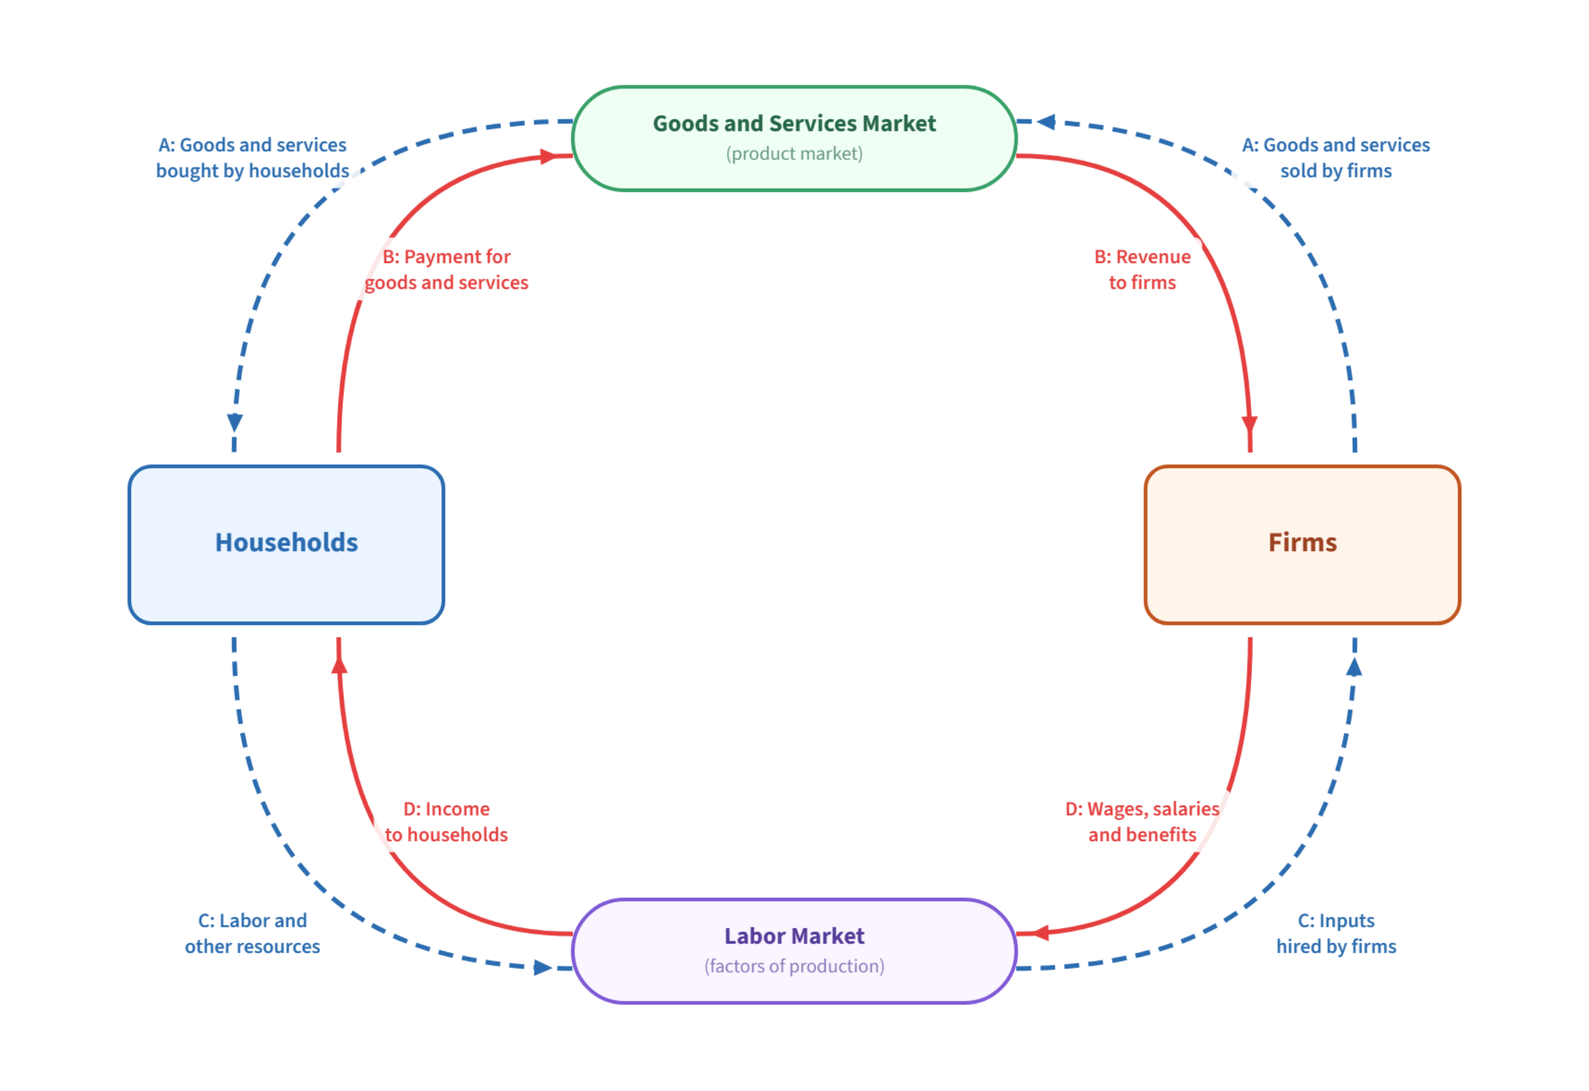
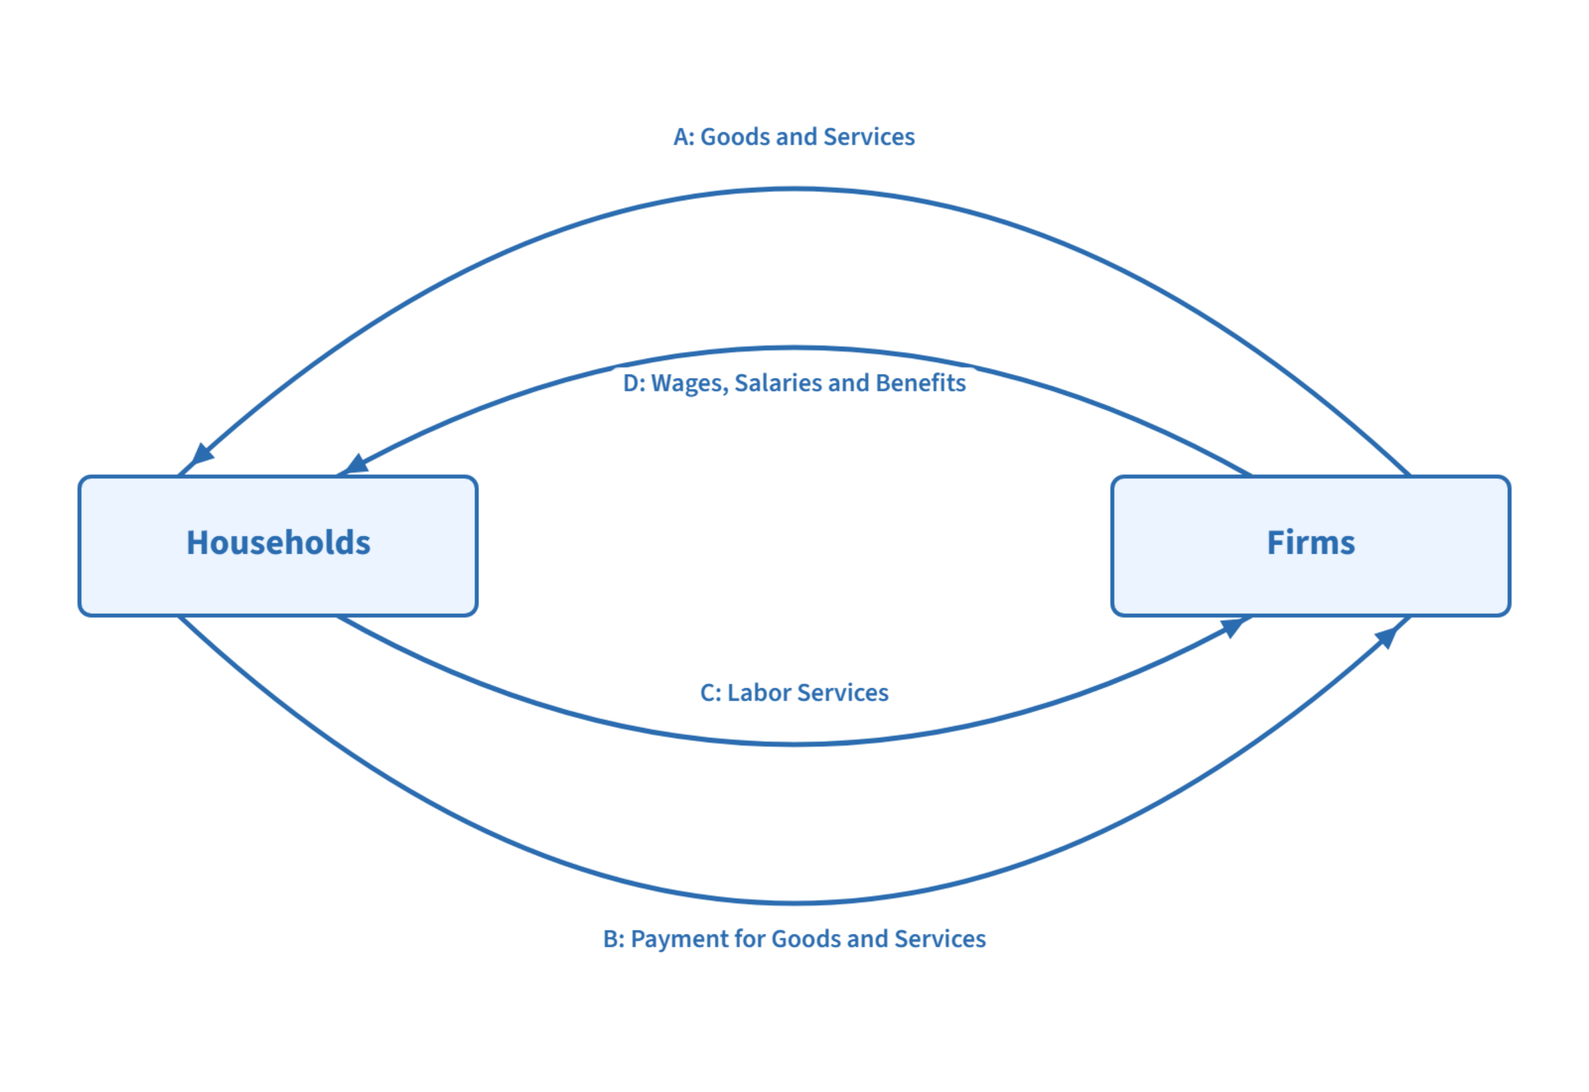
Rebuild book output

diff --git a/HTML_open_principles_of_microeconomics/apps/circular_flow_textbook.html b/HTML_open_principles_of_microeconomics/apps/circular_flow_textbook.html
@@ -10,24 +10,24 @@
 <body>
 <div class="container">
   <div id="section-title" class="title-wrapper"><h1>The Circular Flow Diagram</h1><div class="panel-header-actions" style="top:50%;transform:translateY(-50%)"><button class="panel-close-btn" onclick="closePanel('title')">✕</button></div></div>
-  <div id="section-subtitle" class="subtitle-wrapper"><p class="subtitle">Households and firms meet in two markets; goods and labor go one way round, payments go the other. Drag boxes and labels to rearrange.</p><div class="panel-header-actions" style="top:4px"><button class="panel-close-btn" onclick="closePanel('subtitle')">✕</button></div></div>
+  <div id="section-subtitle" class="subtitle-wrapper"><p class="subtitle">Households and firms interact in the goods and services market and in the labor market. Drag the boxes and labels to rearrange.</p><div class="panel-header-actions" style="top:4px"><button class="panel-close-btn" onclick="closePanel('subtitle')">✕</button></div></div>
 
   <div class="main-content">
     <div class="left-column">
       <div class="graph-container" id="section-graph">
-        <div class="graph-header" onclick="tog('graph')"><div class="panel-title">A. Households, Firms and Two Markets</div><div class="panel-header-actions"><button class="panel-collapse-btn" id="toggle-graph" onclick="event.stopPropagation();tog('graph')">▼</button><button class="panel-close-btn" onclick="event.stopPropagation();closePanel('graph')">✕</button></div></div>
+        <div class="graph-header" onclick="tog('graph')"><div class="panel-title">A. Households and Firms</div><div class="panel-header-actions"><button class="panel-collapse-btn" id="toggle-graph" onclick="event.stopPropagation();tog('graph')">▼</button><button class="panel-close-btn" onclick="event.stopPropagation();closePanel('graph')">✕</button></div></div>
         <div class="graph-body" id="body-graph">
           <div class="plot-actions"><button class="plot-action-btn" id="copy-plot-btn"><svg viewBox="0 0 24 24" fill="none" stroke="currentColor" stroke-width="2"><rect x="9" y="9" width="13" height="13" rx="2"/><path d="M5 15H4a2 2 0 0 1-2-2V4a2 2 0 0 1 2-2h9a2 2 0 0 1 2 2v1"/></svg><span id="copy-label">Copy image</span></button><button class="plot-action-btn" id="save-plot-btn"><svg viewBox="0 0 24 24" fill="none" stroke="currentColor" stroke-width="2"><path d="M21 15v4a2 2 0 0 1-2 2H5a2 2 0 0 1-2-2v-4"/><polyline points="7 10 12 15 17 10"/><line x1="12" y1="15" x2="12" y2="3"/></svg><span id="save-label">Save PNG</span></button></div>
-          <canvas id="graph" width="1720" height="1180"></canvas>
+          <canvas id="graph" width="1600" height="1100"></canvas>
         </div>
       </div>
 
       <div class="left-section" id="section-explanation">
         <div class="left-section-header" onclick="tog('explanation')"><div class="panel-title">Explanation</div><div class="panel-header-actions"><button class="panel-collapse-btn" id="toggle-explanation" onclick="event.stopPropagation();tog('explanation')">▼</button><button class="panel-close-btn" onclick="event.stopPropagation();closePanel('explanation')">✕</button></div></div>
         <div class="left-section-body" id="body-explanation">
-          <p>The circular flow diagram pictures the economy as two groups, <strong>households</strong> and <strong>firms</strong>, that meet in two markets. In the <strong>goods and services market</strong> (top) firms sell and households buy. In the <strong>labor market</strong>, or market for factors of production (bottom), households sell labor and other resources and firms buy them.</p>
-          <p>Firms produce and sell goods and services to households: arrow <strong>A</strong>. Households pay for them, and those payments become the firms' revenue: arrow <strong>B</strong>. Where do households get the money? They supply labor and other inputs to firms: arrow <strong>C</strong>. Firms pay for those inputs with wages, salaries and other factor payments: arrow <strong>D</strong>. Arrows A and B are the two sides of the product market; C and D are the two sides of the factor market.</p>
-          <p>The <span style="color:#e53e3e;font-weight:600">solid flows</span> are money and run clockwise; the <span style="color:#2b6cb0;font-weight:600">dashed flows</span> are real things, goods and labor, and run the other way. Every dollar one group spends is income to the other, which is why the flow never stops.</p>
+          <p>The circular flow diagram pictures the economy as two groups, <strong>households</strong> and <strong>firms</strong>, that interact in two markets: the <strong>goods and services market</strong>, in which firms sell and households buy, and the <strong>labor market</strong>, in which households sell labor to firms.</p>
+          <p>Firms produce and sell goods and services to households (arrow <strong>A</strong>). Households pay for those goods and services, and the payments become the firms' revenue (arrow <strong>B</strong>). Arrows A and B are the two sides of the goods and services market. Where do households get the income to pay? They provide the labor and other resources firms need (arrow <strong>C</strong>), and firms pay for them with wages, salaries and benefits (arrow <strong>D</strong>). Arrows C and D are the two sides of the labor market.</p>
+          <p>The direction of the arrows is the point: everything on the top half flows to households, everything on the bottom half flows to firms, and each group's spending is the other group's income.</p>
         </div>
       </div>
     </div>
@@ -40,15 +40,15 @@
       <div class="control-panel" id="section-keyvals">
         <div class="control-panel-header" onclick="tog('keyvals')"><div class="panel-title">Key</div><div class="panel-header-actions"><button class="panel-collapse-btn" id="toggle-keyvals" onclick="event.stopPropagation();tog('keyvals')">▼</button><button class="panel-close-btn" onclick="event.stopPropagation();closePanel('keyvals')">✕</button></div></div>
         <div class="control-panel-body" id="body-keyvals">
-          <div class="legend">
-            <div class="legend-item"><div class="legend-dot" style="background:#2b6cb0"></div><span>Households</span></div>
-            <div class="legend-item"><div class="legend-dot" style="background:#c05621"></div><span>Firms</span></div>
-            <div class="legend-item"><div class="legend-dot" style="background:#38a169"></div><span>Goods and services market</span></div>
-            <div class="legend-item"><div class="legend-dot" style="background:#805ad5"></div><span>Labor (factor) market</span></div>
-            <div class="legend-item"><div class="legend-line" style="background:#e53e3e"></div><span>Money flows, clockwise (B, D)</span></div>
-            <div class="legend-item"><div class="legend-line" style="background:#2b6cb0;height:1px;border:1px dashed #2b6cb0"></div><span>Real flows, counter-clockwise (A, C)</span></div>
-          </div>
-          <div class="equation-box" style="margin-top:12px">\( \text{Spending} = \text{Revenue} = \text{Factor payments} = \text{Income} \)</div>
+          <table class="data-table">
+            <thead><tr><th>Arrow</th><th>Flow</th><th>Market</th></tr></thead>
+            <tbody>
+              <tr><td>A</td><td style="text-align:left">Goods and services, firms to households</td><td>Goods and services</td></tr>
+              <tr><td>B</td><td style="text-align:left">Payment for goods and services, households to firms</td><td>Goods and services</td></tr>
+              <tr><td>C</td><td style="text-align:left">Labor services, households to firms</td><td>Labor</td></tr>
+              <tr><td>D</td><td style="text-align:left">Wages, salaries and benefits, firms to households</td><td>Labor</td></tr>
+            </tbody>
+          </table>
         </div>
       </div>
     </div>
@@ -72,22 +72,18 @@
 </div>
 
 <script>
-// A schematic laid out in design pixels on a 1720 x 1180 canvas (the 3611
-// original's 860 x 660 layout at the library's design ratio): four boxes at
-// the cardinal points of a ring, eight quarter-turn arcs between them. There
-// are no data axes. Boxes are draggable through the library by registering
-// each as a label hit box whose nudge moves the whole box, so a rearranged
-// diagram travels in the URL hash like any other figure state.
+// Figure 1.7 of the book: two boxes, Households on the left and Firms on the
+// right, joined by four arrows labelled A to D exactly as the chapter text
+// names them. The 3611 course's circular flow app (which also draws the two
+// markets as boxes and separates money from real flows) was the starting
+// point, but the figure follows the book's own diagram and text, not the
+// richer course version. The market names are available as a toggle that
+// defaults off, since the text refers to them without drawing them.
 //
-// Ported from apec_3611/src/games/circular_flow_explanation.html. The flow
-// labels carry the letters A to D that the chapter text refers to.
-const COL = {
-  hh: { fill:'#ebf4ff', stroke:'#2b6cb0', text:'#2b6cb0' },
-  fi: { fill:'#fff5eb', stroke:'#c05621', text:'#9c4221' },
-  gm: { fill:'#f0fff4', stroke:'#38a169', text:'#276749' },
-  fm: { fill:'#faf5ff', stroke:'#805ad5', text:'#553c9a' },
-  money:'#e53e3e', real:'#2b6cb0', math:'#4a5568',
-};
+// Laid out in design pixels on a 1600 x 1100 canvas; no data axes. Boxes are
+// draggable through the library by registering each as a label hit box whose
+// nudge moves the whole box.
+const BLUE = '#2b6cb0', FILL = '#ebf4ff', GREY = '#718096';
 const qB  = (t, a, b, c) => { const u = 1 - t; return u * u * a + 2 * u * t * b + t * t * c; };
 const qBD = (t, a, b, c) => 2 * (1 - t) * (b - a) + 2 * t * (c - b);
 
@@ -102,29 +98,22 @@ new EconViz({
   downloadName: 'circular_flow.png',
   axes: { xMin:0, xMax:1, yMin:0, yMax:1, margin:{top:0, right:0, bottom:0, left:0} },
   sliders: [
-    { id:'gap_x', label:'Agent spacing',    min:200, max:340, value:275, step:5 },
-    { id:'gap_y', label:'Market spacing',   min:160, max:260, value:220, step:5 },
+    { id:'gap_x', label:'Box spacing',      min:180, max:320, value:260, step:5 },
+    { id:'gap_y', label:'Arc height',       min:120, max:260, value:180, step:5 },
     { id:'speed', label:'Animation speed',  min:0.2, max:3,   value:1,   step:0.1, fmt:v => v.toFixed(1) + 'x' },
   ],
   toggles: [
-    { id:'show_households',   label:'Households' },
-    { id:'show_firms',        label:'Firms' },
-    { id:'show_gm',           label:'Goods and services market' },
-    { id:'show_fm',           label:'Labor (factor) market' },
-    { id:'show_money',        label:'Money flows (solid)' },
-    { id:'show_real',         label:'Real flows (dashed)' },
-    { id:'show_agentlabels',  label:'Household and firm labels' },
-    { id:'show_marketlabels', label:'Market labels' },
-    { id:'show_flowlabels',   label:'Flow labels (A to D)' },
-    { id:'show_icons',        label:'Icons', checked:false },
-    { id:'show_math',         label:'What each group maximizes', checked:false },
-    { id:'show_anim',         label:'Animate flows (live only)', checked:false },
+    { id:'show_gm',         label:'Goods and services market flows (A, B)' },
+    { id:'show_fm',         label:'Labor market flows (C, D)' },
+    { id:'show_labels',     label:'Households and Firms labels' },
+    { id:'show_flowlabels', label:'Arrow labels (A to D)' },
+    { id:'show_markets',    label:'Market names', checked:false },
+    { id:'show_anim',       label:'Animate flows (live only)', checked:false },
   ],
   panels: { title:'Title', subtitle:'Subtitle', graph:'Diagram', explanation:'Explanation', layout:'Layout', keyvals:'Key' },
   leftPanels:  ['graph','explanation'],
   rightPanels: ['layout','keyvals'],
-  nudgeKeys: ['box.hh','box.fi','box.gm','box.fm',
-              'flow.a1','flow.a2','flow.b1','flow.b2','flow.c1','flow.c2','flow.d1','flow.d2'],
+  nudgeKeys: ['box.hh','box.fi','flow.A','flow.B','flow.C','flow.D','mk.gm','mk.fm'],
 
   draw(g) {
     const { S, ctx, val, vis, W, H } = g;
@@ -134,120 +123,86 @@ new EconViz({
 
     // ---- Boxes (centre, size), nudged by dragging ----
     const place = (key, x, y, w, h) => { const n = g.getNudge(key); return { key, x: x + n.dx, y: y + n.dy, w, h }; };
-    const B = {
-      hh: place('box.hh', cx - val('gap_x') * s, cy, 170 * s, 100 * s),
-      fi: place('box.fi', cx + val('gap_x') * s, cy, 170 * s, 100 * s),
-      gm: place('box.gm', cx, cy - val('gap_y') * s, 240 * s, 56 * s),
-      fm: place('box.fm', cx, cy + val('gap_y') * s, 240 * s, 56 * s),
+    const hh = place('box.hh', cx - val('gap_x') * s, cy, 200 * s, 70 * s);
+    const fi = place('box.fi', cx + val('gap_x') * s, cy, 200 * s, 70 * s);
+    const top = b => b.y - b.h / 2, bot = b => b.y + b.h / 2, xAt = (b, f) => b.x - b.w / 2 + b.w * f;
+
+    // ---- Arrows ----
+    // Four arcs between the two boxes. Everything on top flows to households,
+    // everything on the bottom flows to firms, as in the book's figure. Each
+    // is a quadratic bezier whose control point sits above (or below) the
+    // centre; the outer pair reaches higher than the inner pair.
+    const rise = val('gap_y') * s, inner = rise - 80 * s;
+    const arcBetween = (id, from, to, f1, f2, edge, h, label) => {
+      const y1 = edge(from), y2 = edge(to), sign = edge === top ? -1 : 1;
+      const peak = cy + sign * h;
+      return { id, x1: xAt(from, f1), y1, x2: xAt(to, f2), y2, cpx: cx, cpy: 2 * peak - (y1 + y2) / 2, label, sign };
     };
-    const shown = { hh: vis('show_households'), fi: vis('show_firms'), gm: vis('show_gm'), fm: vis('show_fm') };
+    const flows = [
+      // Outer arcs attach at the outer ends of the boxes, inner arcs nearer the
+      // middle, so the two pairs never cross.
+      { market:'gm', ...arcBetween('A', fi, hh, 0.75, 0.25, top, rise,  'A: Goods and Services') },
+      { market:'fm', ...arcBetween('D', fi, hh, 0.35, 0.65, top, inner, 'D: Wages, Salaries and Benefits') },
+      { market:'fm', ...arcBetween('C', hh, fi, 0.65, 0.35, bot, inner, 'C: Labor Services') },
+      { market:'gm', ...arcBetween('B', hh, fi, 0.25, 0.75, bot, rise,  'B: Payment for Goods and Services') },
+    ].filter(f => vis('show_' + f.market));
 
-    // ---- Flow geometry ----
-    // Each arc leaves an agent box vertically and arrives at a market pill
-    // horizontally (or the reverse), as a quadratic bezier whose control
-    // point sits at the corner of the two endpoints' bounding box. Money
-    // (inner, clockwise) uses the attach points nearer the centre; real
-    // flows (outer, counter-clockwise) use the ones further out.
-    const xAt = (b, f) => b.x - b.w / 2 + b.w * f, yAt = (b, f) => b.y - b.h / 2 + b.h * f;
-    const top = b => b.y - b.h / 2, bot = b => b.y + b.h / 2, lft = b => b.x - b.w / 2, rgt = b => b.x + b.w / 2;
-    const arc  = (id, x1, y1, x2, y2, label) => ({ id, x1, y1, cpx:x1, cpy:y2, x2, y2, label });
-    const arcR = (id, x1, y1, x2, y2, label) => ({ id, x1, y1, cpx:x2, cpy:y1, x2, y2, label });
-    const { hh, fi, gm, fm } = B;
-    const money = [
-      arc ('b1', xAt(hh, 2/3), top(hh),      lft(gm),      yAt(gm, 2/3), 'B: Payment for\ngoods and services'),
-      arcR('b2', rgt(gm),      yAt(gm, 2/3), xAt(fi, 1/3), top(fi),      'B: Revenue\nto firms'),
-      arc ('d1', xAt(fi, 1/3), bot(fi),      rgt(fm),      yAt(fm, 1/3), 'D: Wages, salaries\nand benefits'),
-      arcR('d2', lft(fm),      yAt(fm, 1/3), xAt(hh, 2/3), bot(hh),      'D: Income\nto households'),
-    ];
-    const real = [
-      arc ('a1', xAt(fi, 2/3), top(fi),      rgt(gm),      yAt(gm, 1/3), 'A: Goods and services\nsold by firms'),
-      arcR('a2', lft(gm),      yAt(gm, 1/3), xAt(hh, 1/3), top(hh),      'A: Goods and services\nbought by households'),
-      arc ('c1', xAt(hh, 1/3), bot(hh),      lft(fm),      yAt(fm, 2/3), 'C: Labor and\nother resources'),
-      arcR('c2', rgt(fm),      yAt(fm, 2/3), xAt(fi, 2/3), bot(fi),      'C: Inputs\nhired by firms'),
-    ];
-
-    const drawArc = (p, color, dashed) => {
+    const drawArc = p => {
       ctx.save();
-      ctx.lineWidth = 2.5 * s; ctx.strokeStyle = color; ctx.setLineDash(dashed ? [8 * s, 5 * s] : []);
+      ctx.lineWidth = 2.5 * s; ctx.strokeStyle = BLUE;
       ctx.beginPath(); ctx.moveTo(p.x1, p.y1); ctx.quadraticCurveTo(p.cpx, p.cpy, p.x2, p.y2); ctx.stroke();
-      ctx.setLineDash([]);
-      const t = 0.97, ax = qB(t, p.x1, p.cpx, p.x2), ay = qB(t, p.y1, p.cpy, p.y2);
-      const ang = Math.atan2(qBD(t, p.y1, p.cpy, p.y2), qBD(t, p.x1, p.cpx, p.x2)), hl = 10 * s;
+      const t = 0.985, ax = qB(t, p.x1, p.cpx, p.x2), ay = qB(t, p.y1, p.cpy, p.y2);
+      const ang = Math.atan2(qBD(t, p.y1, p.cpy, p.y2), qBD(t, p.x1, p.cpx, p.x2)), hl = 12 * s;
       ctx.translate(ax, ay); ctx.rotate(ang);
-      ctx.beginPath(); ctx.moveTo(0, 0); ctx.lineTo(-hl, -hl * 0.45); ctx.lineTo(-hl, hl * 0.45); ctx.closePath();
-      ctx.fillStyle = color; ctx.fill();
+      ctx.beginPath(); ctx.moveTo(hl * 0.4, 0); ctx.lineTo(-hl * 0.6, -hl * 0.45); ctx.lineTo(-hl * 0.6, hl * 0.45); ctx.closePath();
+      ctx.fillStyle = BLUE; ctx.fill();
       ctx.restore();
 
       if (!vis('show_flowlabels')) return;
-      // Label at the arc's midpoint, pushed inward for money and outward for
-      // real flows, on a translucent card so it stays legible over a curve.
+      // Label just outside the arc's peak (outer pair) or just inside it
+      // (inner pair), on a translucent card so it reads over the curve.
       const mx = qB(0.5, p.x1, p.cpx, p.x2), my = qB(0.5, p.y1, p.cpy, p.y2);
-      const ndx = mx - cx, ndy = my - cy, nd = Math.hypot(ndx, ndy) || 1;
-      const push = color === COL.money ? -34 * s : 44 * s;
+      const isOuter = p.id === 'A' || p.id === 'B';
+      const ly = my + p.sign * (isOuter ? 22 * s : -22 * s);
       const key = 'flow.' + p.id, n = g.getNudge(key);
-      const lx = mx + ndx / nd * push + n.dx, ly = my + ndy / nd * push + n.dy;
-      const font = `600 ${11 * s}px ${g.font}`, lineH = 14 * s;
+      const font = `600 ${13 * s}px ${g.font}`;
       ctx.font = font;
-      const lines = p.label.split('\n');
-      const w = Math.max(...lines.map(l => ctx.measureText(l).width)), h = lines.length * lineH;
+      const w = ctx.measureText(p.label).width;
       ctx.fillStyle = 'rgba(255,255,255,0.88)';
-      ctx.beginPath(); ctx.roundRect(lx - w / 2 - 6 * s, ly - h / 2 - 3 * s, w + 12 * s, h + 6 * s, 4 * s); ctx.fill();
-      g.label(p.label, mx + ndx / nd * push, my + ndy / nd * push - h / 2 + 11 * s, { key, font, color, align:'center', lineH });
+      ctx.beginPath(); ctx.roundRect(mx + n.dx - w / 2 - 6 * s, ly + n.dy - 12 * s, w + 12 * s, 18 * s, 4 * s); ctx.fill();
+      g.label(p.label, mx, ly, { key, font, color:BLUE, align:'center' });
     };
-    const drawParticles = (paths, color) => {
-      paths.forEach(p => {
-        for (let i = 0; i < 5; i++) {
-          const t = (animT * 0.12 + i / 5) % 1;
+    const drawParticles = () => {
+      flows.forEach(p => {
+        for (let i = 0; i < 6; i++) {
+          const t = (animT * 0.12 + i / 6) % 1;
           ctx.beginPath(); ctx.arc(qB(t, p.x1, p.cpx, p.x2), qB(t, p.y1, p.cpy, p.y2), 3.5 * s, 0, Math.PI * 2);
-          ctx.fillStyle = color; ctx.globalAlpha = 0.75; ctx.fill(); ctx.globalAlpha = 1;
+          ctx.fillStyle = BLUE; ctx.globalAlpha = 0.6; ctx.fill(); ctx.globalAlpha = 1;
         }
       });
     };
-    const box = (o, c, label, icon, math) => {
-      if (!shown[o.key.slice(4)]) return;
-      const hasMath = vis('show_math') && math;
-      const h = hasMath ? o.h : o.h - 15 * s;
-      const x = o.x - o.w / 2, y = o.y - h / 2;
-      ctx.beginPath(); ctx.roundRect(x, y, o.w, h, 12 * s); ctx.fillStyle = c.fill; ctx.fill();
-      ctx.strokeStyle = c.stroke; ctx.lineWidth = 2 * s; ctx.stroke();
-      g.regLabel(o.key, x, y, o.w, h);
-      if (!vis('show_agentlabels')) return;
-      ctx.save(); ctx.textAlign = 'center'; ctx.textBaseline = 'middle';
-      let ty = y + (hasMath ? 22 * s : h / 2);
-      if (vis('show_icons')) { ctx.font = `${20 * s}px sans-serif`; ctx.fillText(icon, o.x, ty - 2 * s); ty += 16 * s; }
-      ctx.font = `700 ${15 * s}px ${g.font}`; ctx.fillStyle = c.text; ctx.fillText(label, o.x, ty);
-      if (hasMath) {
-        ctx.font = `italic ${10.5 * s}px ${g.font}`; ctx.fillStyle = COL.math;
-        math.forEach((m, i) => ctx.fillText(m, o.x, ty + 17 * s + i * 13 * s));
-      }
-      ctx.restore();
-    };
-    const pill = (o, c, label, sub, icon) => {
-      if (!shown[o.key.slice(4)]) return;
+    const box = (o, label) => {
       const x = o.x - o.w / 2, y = o.y - o.h / 2;
-      ctx.beginPath(); ctx.roundRect(x, y, o.w, o.h, o.h / 2); ctx.fillStyle = c.fill; ctx.fill();
-      ctx.strokeStyle = c.stroke; ctx.lineWidth = 2 * s; ctx.stroke();
+      ctx.beginPath(); ctx.roundRect(x, y, o.w, o.h, 6 * s); ctx.fillStyle = FILL; ctx.fill();
+      ctx.strokeStyle = BLUE; ctx.lineWidth = 2 * s; ctx.stroke();
       g.regLabel(o.key, x, y, o.w, o.h);
-      if (!vis('show_marketlabels')) return;
+      if (!vis('show_labels')) return;
       ctx.save(); ctx.textAlign = 'center'; ctx.textBaseline = 'middle';
-      ctx.font = `700 ${13 * s}px ${g.font}`; ctx.fillStyle = c.text; ctx.fillText(label, o.x, o.y - 7 * s);
-      ctx.font = `${10.5 * s}px ${g.font}`; ctx.globalAlpha = 0.7; ctx.fillText(sub, o.x, o.y + 9 * s); ctx.globalAlpha = 1;
-      if (vis('show_icons')) { ctx.font = `${15 * s}px sans-serif`; ctx.fillText(icon, x + 22 * s, o.y); }
+      ctx.font = `700 ${18 * s}px ${g.font}`; ctx.fillStyle = BLUE; ctx.fillText(label, o.x, o.y);
       ctx.restore();
     };
 
     // ---- Plot ----
     g.clear();
-    if (vis('show_money')) money.forEach(p => drawArc(p, COL.money, false));
-    if (vis('show_real'))  real.forEach(p => drawArc(p, COL.real, true));
-    if (animate) {
-      if (vis('show_money')) drawParticles(money, COL.money);
-      if (vis('show_real'))  drawParticles(real, COL.real);
+    flows.forEach(drawArc);
+    if (animate) drawParticles();
+    box(hh, 'Households');
+    box(fi, 'Firms');
+    if (vis('show_markets')) {
+      const font = `italic ${14 * s}px ${g.font}`;
+      if (vis('show_gm')) g.label('Goods and services market', cx, cy - rise - 56 * s, { key:'mk.gm', font, color:GREY, align:'center' });
+      if (vis('show_fm')) g.label('Labor market', cx, cy + rise + 66 * s, { key:'mk.fm', font, color:GREY, align:'center' });
     }
-    box(B.hh, COL.hh, 'Households', '🏠', ['max U(X₁, X₂, …)', 's.t.  p·X ≤ M']);
-    box(B.fi, COL.fi, 'Firms', '🏭', ['max π = p·f(L,K) − wL − rK', 's.t.  Y = f(L, K)']);
-    pill(B.gm, COL.gm, 'Goods and Services Market', '(product market)', '🛒');
-    pill(B.fm, COL.fm, 'Labor Market', '(factors of production)', '⚙');
 
     if (animate) {
       if (!animPending) {

diff --git a/HTML_open_principles_of_microeconomics/03_demand_and_supply.html b/HTML_open_principles_of_microeconomics/03_demand_and_supply.html
@@ -1020,7 +1020,7 @@ Figure&nbsp;3.9
 </figcaption>
 </figure>
 </div>
-<div id="890f970e" class="cell" data-execution_count="1">
+<div id="f5e0a111" class="cell" data-execution_count="1">
 <details class="code-fold">
 <summary>Code</summary>
 <div class="code-copy-outer-scaffold"><div class="sourceCode cell-code" id="cb1"><pre class="sourceCode python code-with-copy"><code class="sourceCode python"><span id="cb1-1"><a href="#cb1-1" aria-hidden="true" tabindex="-1"></a><span class="im">import</span> numpy <span class="im">as</span> np</span>
